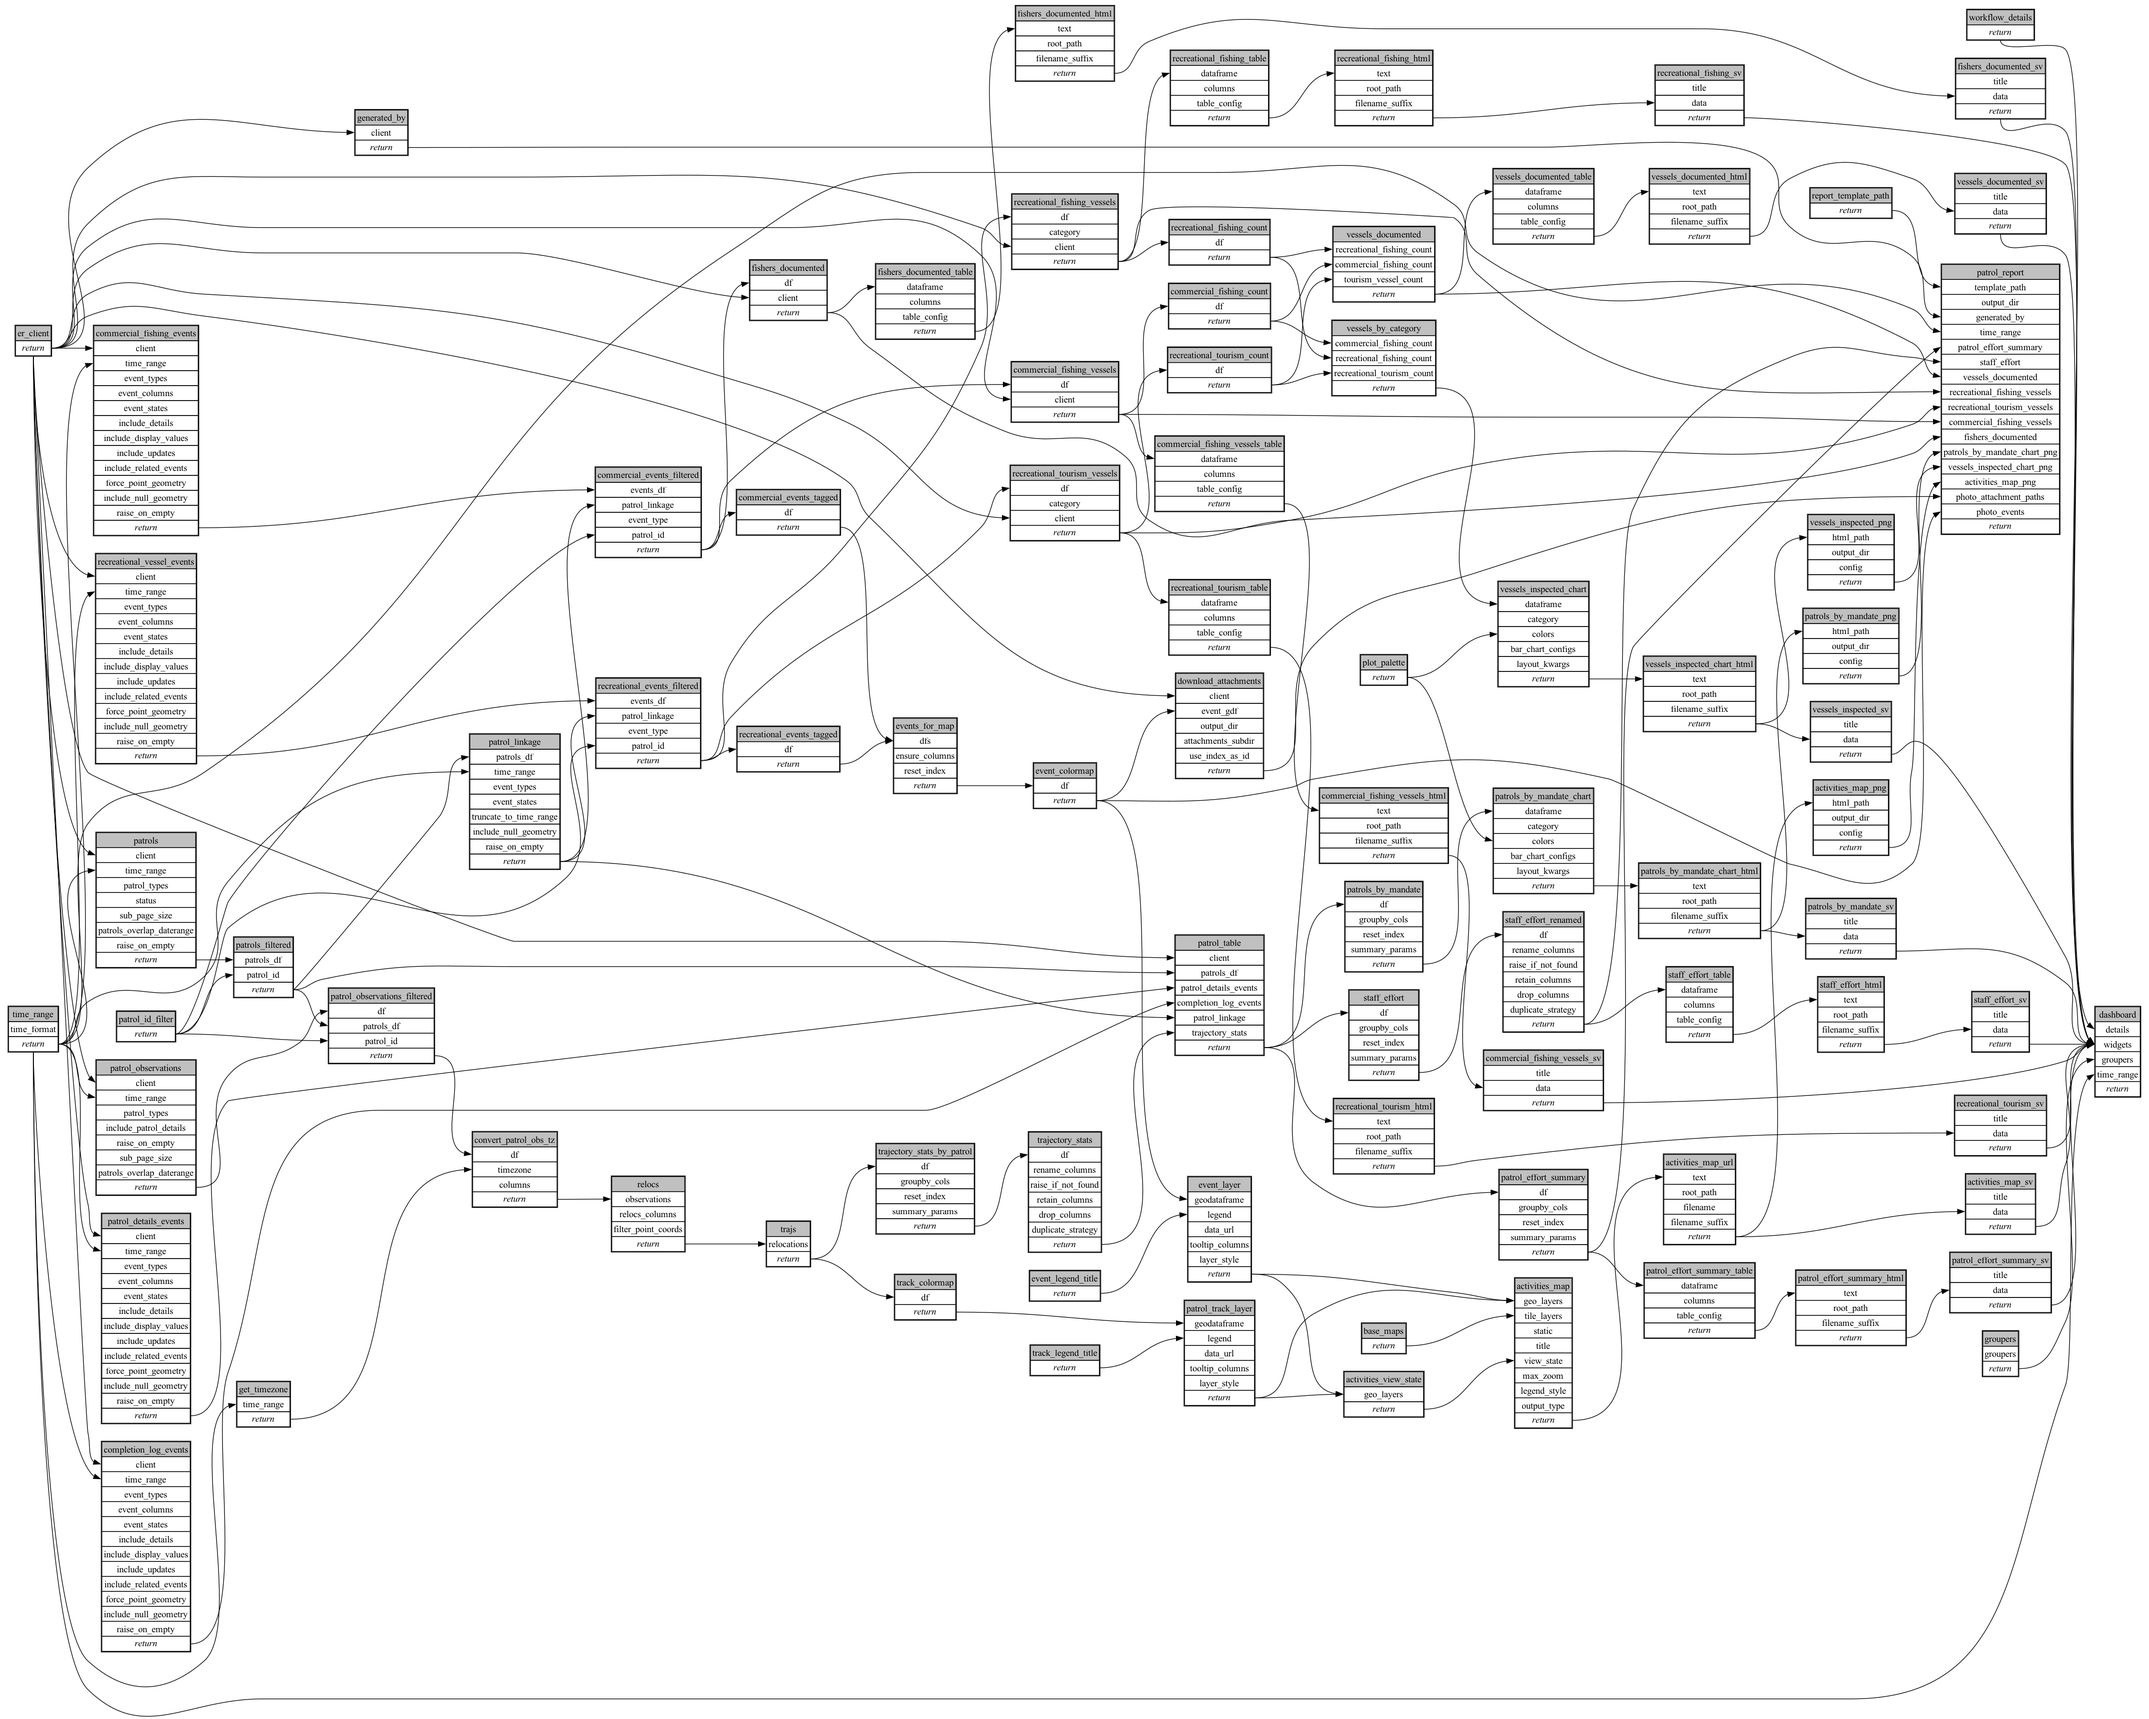
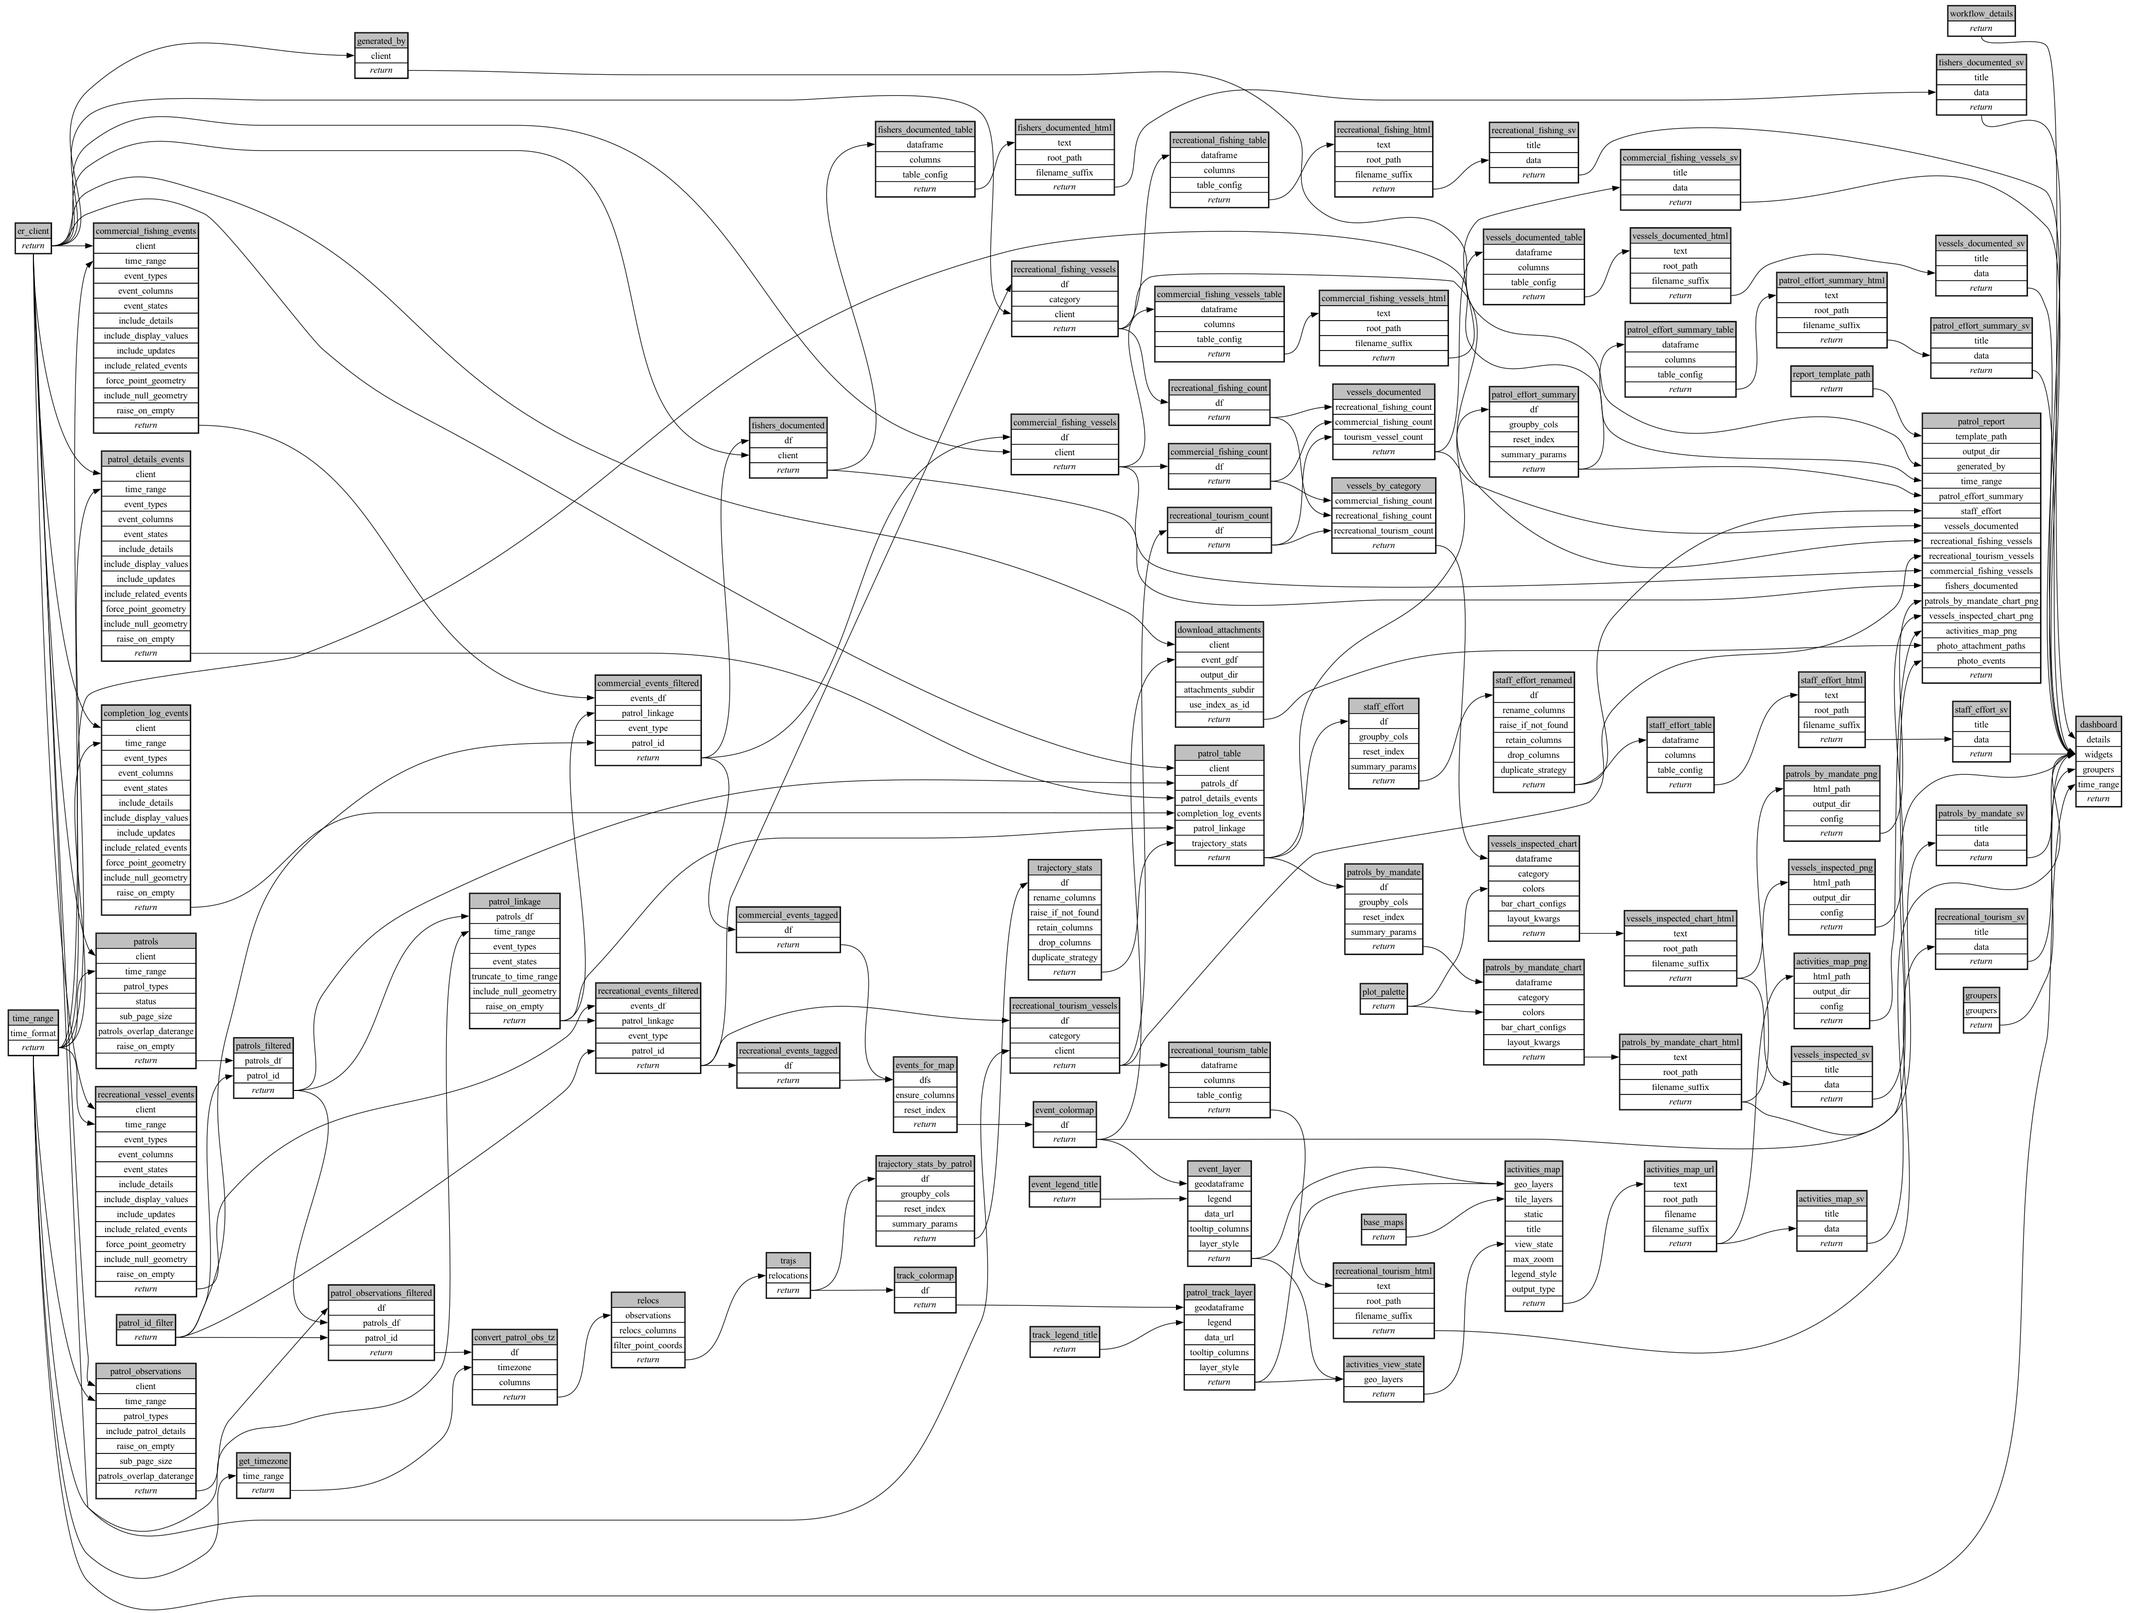
Recompile the workflow package for the Viewstate rename/reorder

diff --git a/ecoscope-workflows-belize-patrol-report-workflow/ecoscope_workflows_belize_patrol_report_workflow/dags/run_sequential_mock_io.py b/ecoscope-workflows-belize-patrol-report-workflow/ecoscope_workflows_belize_patrol_report_workflow/dags/run_sequential_mock_io.py
@@ -75,8 +75,16 @@ get_events = create_func_magicmock(  # 🧪
 from ecoscope.platform.tasks.analysis import dataframe_count as dataframe_count
 from ecoscope.platform.tasks.io import persist_text as persist_text
 from ecoscope.platform.tasks.results import (
+    create_map_widget_single_view as create_map_widget_single_view,
+)
+from ecoscope.platform.tasks.results import create_path_layer as create_path_layer
+from ecoscope.platform.tasks.results import (
     create_plot_widget_single_view as create_plot_widget_single_view,
 )
+from ecoscope.platform.tasks.results import (
+    create_scatterplot_layer as create_scatterplot_layer,
+)
+from ecoscope.platform.tasks.results import draw_map as draw_map
 from ecoscope.platform.tasks.results import draw_table as draw_table
 from ecoscope.platform.tasks.skip import never as never
 from ecoscope.platform.tasks.transformation import (
@@ -107,6 +115,9 @@ from ecoscope_workflows_ext_belize.tasks import (
     filter_recreational_vessels_by_category as filter_recreational_vessels_by_category,
 )
 from ecoscope_workflows_ext_belize.tasks import (
+    fit_view_to_geodataframes as fit_view_to_geodataframes,
+)
+from ecoscope_workflows_ext_belize.tasks import (
     flatten_commercial_fishing_vessels as flatten_commercial_fishing_vessels,
 )
 from ecoscope_workflows_ext_belize.tasks import (
@@ -120,17 +131,6 @@ download_event_attachments = create_func_magicmock(  # 🧪
     anchor="ecoscope_workflows_ext_custom.tasks.io",  # 🧪
     func_name="download_event_attachments",  # 🧪
 )  # 🧪
-from ecoscope.platform.tasks.results import (
-    create_map_widget_single_view as create_map_widget_single_view,
-)
-from ecoscope.platform.tasks.results import create_path_layer as create_path_layer
-from ecoscope.platform.tasks.results import (
-    create_scatterplot_layer as create_scatterplot_layer,
-)
-from ecoscope.platform.tasks.results import draw_map as draw_map
-from ecoscope_workflows_ext_belize.tasks import (
-    fit_view_to_geodataframes as fit_view_to_geodataframes,
-)
 from ecoscope_workflows_ext_custom.tasks.io import html_to_png as html_to_png
 
 get_report_generated_by = create_func_magicmock(  # 🧪
@@ -1437,23 +1437,6 @@ def main(params: dict[str, Any], validate_params_schema: bool = True):
         .call()
     )
 
-    download_attachments = (
-        task(download_event_attachments)
-        # 🧪 validation omitted for mocked IO task (returns pre-loaded example data)
-        .set_task_instance_id("download_attachments")
-        .handle_errors()
-        .with_tracing()
-        .partial(
-            client=er_client,
-            event_gdf=event_colormap,
-            output_dir=os.environ["ECOSCOPE_WORKFLOWS_RESULTS"],
-            attachments_subdir="attachments",
-            use_index_as_id=False,
-            **(params.get("download_attachments") or {}),
-        )
-        .call()
-    )
-
     patrol_track_layer = (
         task(create_path_layer)
         .validate()
@@ -1565,6 +1548,23 @@ def main(params: dict[str, Any], validate_params_schema: bool = True):
             title="Map of Activities Documented",
             data=activities_map_url,
             **(params.get("activities_map_sv") or {}),
+        )
+        .call()
+    )
+
+    download_attachments = (
+        task(download_event_attachments)
+        # 🧪 validation omitted for mocked IO task (returns pre-loaded example data)
+        .set_task_instance_id("download_attachments")
+        .handle_errors()
+        .with_tracing()
+        .partial(
+            client=er_client,
+            event_gdf=event_colormap,
+            output_dir=os.environ["ECOSCOPE_WORKFLOWS_RESULTS"],
+            attachments_subdir="attachments",
+            use_index_as_id=False,
+            **(params.get("download_attachments") or {}),
         )
         .call()
     )

diff --git a/ecoscope-workflows-belize-patrol-report-workflow/ecoscope_workflows_belize_patrol_report_workflow/dags/run_sequential.py b/ecoscope-workflows-belize-patrol-report-workflow/ecoscope_workflows_belize_patrol_report_workflow/dags/run_sequential.py
@@ -1400,23 +1400,6 @@ def main(params: dict[str, Any], validate_params_schema: bool = True):
         .call()
     )
 
-    download_attachments = (
-        task(download_event_attachments)
-        .validate()
-        .set_task_instance_id("download_attachments")
-        .handle_errors()
-        .with_tracing()
-        .partial(
-            client=er_client,
-            event_gdf=event_colormap,
-            output_dir=os.environ["ECOSCOPE_WORKFLOWS_RESULTS"],
-            attachments_subdir="attachments",
-            use_index_as_id=False,
-            **(params.get("download_attachments") or {}),
-        )
-        .call()
-    )
-
     patrol_track_layer = (
         task(create_path_layer)
         .validate()
@@ -1528,6 +1511,23 @@ def main(params: dict[str, Any], validate_params_schema: bool = True):
             title="Map of Activities Documented",
             data=activities_map_url,
             **(params.get("activities_map_sv") or {}),
+        )
+        .call()
+    )
+
+    download_attachments = (
+        task(download_event_attachments)
+        .validate()
+        .set_task_instance_id("download_attachments")
+        .handle_errors()
+        .with_tracing()
+        .partial(
+            client=er_client,
+            event_gdf=event_colormap,
+            output_dir=os.environ["ECOSCOPE_WORKFLOWS_RESULTS"],
+            attachments_subdir="attachments",
+            use_index_as_id=False,
+            **(params.get("download_attachments") or {}),
         )
         .call()
     )

diff --git a/ecoscope-workflows-belize-patrol-report-workflow/README.md b/ecoscope-workflows-belize-patrol-report-workflow/README.md
@@ -5,8 +5,8 @@
 
 ```yaml
 # fingerprint:
-artifacts_sha256_basic: 9f36f685223bbfe77db847bb3d74c3daec41f43eec3132d136dbf761ba48eb63
-artifacts_sha256_strict: 4f8af430b7d8f2bb504fe67b2bb4f90e04e9f804146e69df3e18429b742eafd2
+artifacts_sha256_basic: cb9d1ea4d63e1c8241cde1c869b9eac70fdcb30311cfb6702452f562abfb9710
+artifacts_sha256_strict: bd12b426ad2c1d93e5dcc39128226e1c365feec9cd24d5643b62fe2a438e0651
 installed_requirements:
 - channel: https://repo.prefix.dev/ecoscope-workflows/
   name: ecoscope-platform
@@ -21,7 +21,7 @@ installed_requirements:
   name: ecoscope-workflows-ext-belize
   version: {version: ==0.0.0}
 params_sha256: 774d1a447d635593ae066a351e24f66c1ae769866318164058f4fbfd3bb89553
-spec_sha256: aa57e3017b1773413d218fa8a1cf876f3e405e2bfa58dd9f13547033f88dcf7d
+spec_sha256: be36728976c3423ecf70c24098c7f3bdb79d138076d2ed2e3f3ed14797dae85f
 
 ```
 
